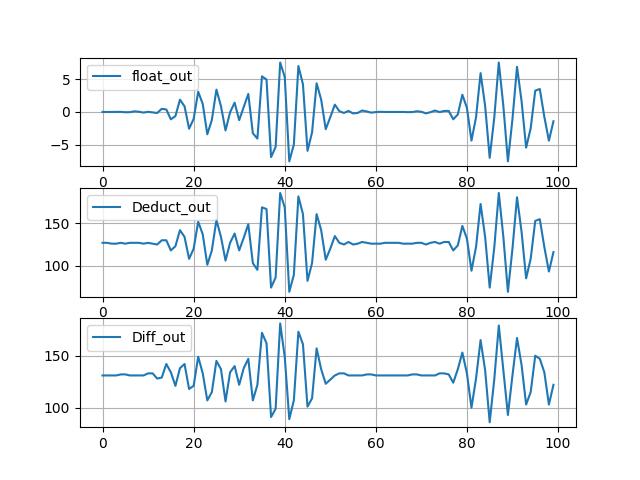
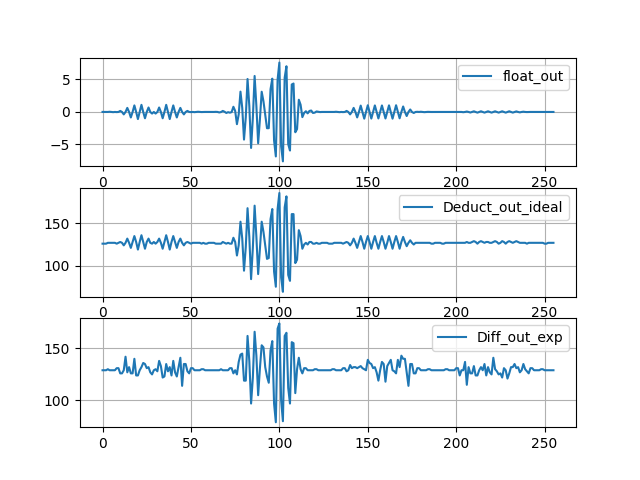
modified:   python/main.py 	modified:   results/float_out_vs_Deduct_out_ideal_vs_Deduct_out_exp.png

diff --git a/python/main.py b/python/main.py
@@ -257,7 +257,8 @@ if __name__ == '__main__':
     Quan_out, a, b, c, d, max_range, min_range = Quantize_VMM(float_in, float_weight, v_range, g_range)
     
     #calibrate the output
-    p0, p1 = calibrate_p0_p1(exp_out[:1000, :], Quan_out[:1000, :])
+    start_index = np.random.randint(0, float_out.shape[0] - 1000)
+    p0, p1 = calibrate_p0_p1(exp_out[start_index:start_index + 1000, :], Quan_out[start_index:start_index + 1000, :])
     exp_out_calib = calibrate_data(exp_out, p0, p1)
     
     Deduct_out_exp = Deduct_VM(exp_out_calib, a, b, c, d, max_range, min_range, float_in, float_weight)
@@ -270,20 +271,22 @@ if __name__ == '__main__':
           np.mean(np.abs(Deduct_out_exp - Deduct_out_ideal)))
     
     # plot float_out and Deduct_out and Diff_out in a figure with three subplots
+    # randomly pick 512 consecutive elements from the output vectors
+    start_index = np.random.randint(0, len(float_out) - 256)
     plt.figure()
     plt.subplot(3, 1, 1)
-    plt.plot(float_out.flatten()[:100], label='float_out')
+    plt.plot(float_out.flatten()[start_index : start_index + 256], label='float_out')
     plt.legend()
     plt.grid()
     plt.subplot(3, 1, 2)
-    plt.plot(Deduct_out_ideal.flatten()[:100], label='Deduct_out')
+    plt.plot(Deduct_out_ideal.flatten()[start_index : start_index + 256], label='Deduct_out_ideal')
     plt.legend()
     plt.grid()
     plt.subplot(3, 1, 3)
-    plt.plot(Deduct_out_exp.flatten()[:100], label='Diff_out')
+    plt.plot(Deduct_out_exp.flatten()[start_index : start_index + 256], label='Diff_out_exp')
     plt.legend()
     plt.grid()
     plt.show()
     # save the figure
-    plt.savefig('float_out_Deduct_out_Diff_out.png')
+    plt.savefig('./results/float_out_vs_Deduct_out_ideal_vs_Deduct_out_exp.png')
     
